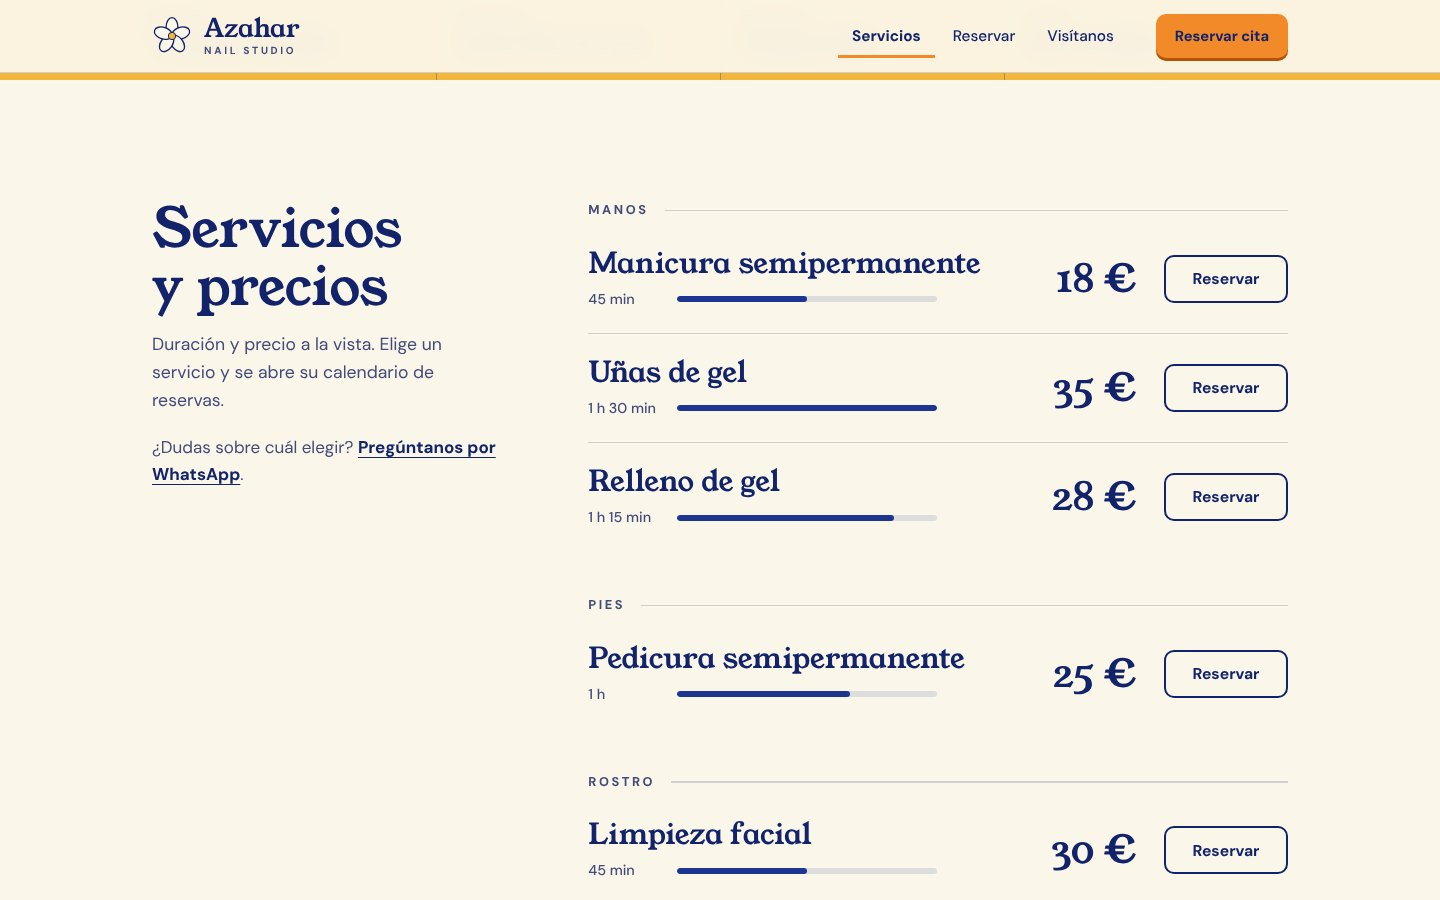
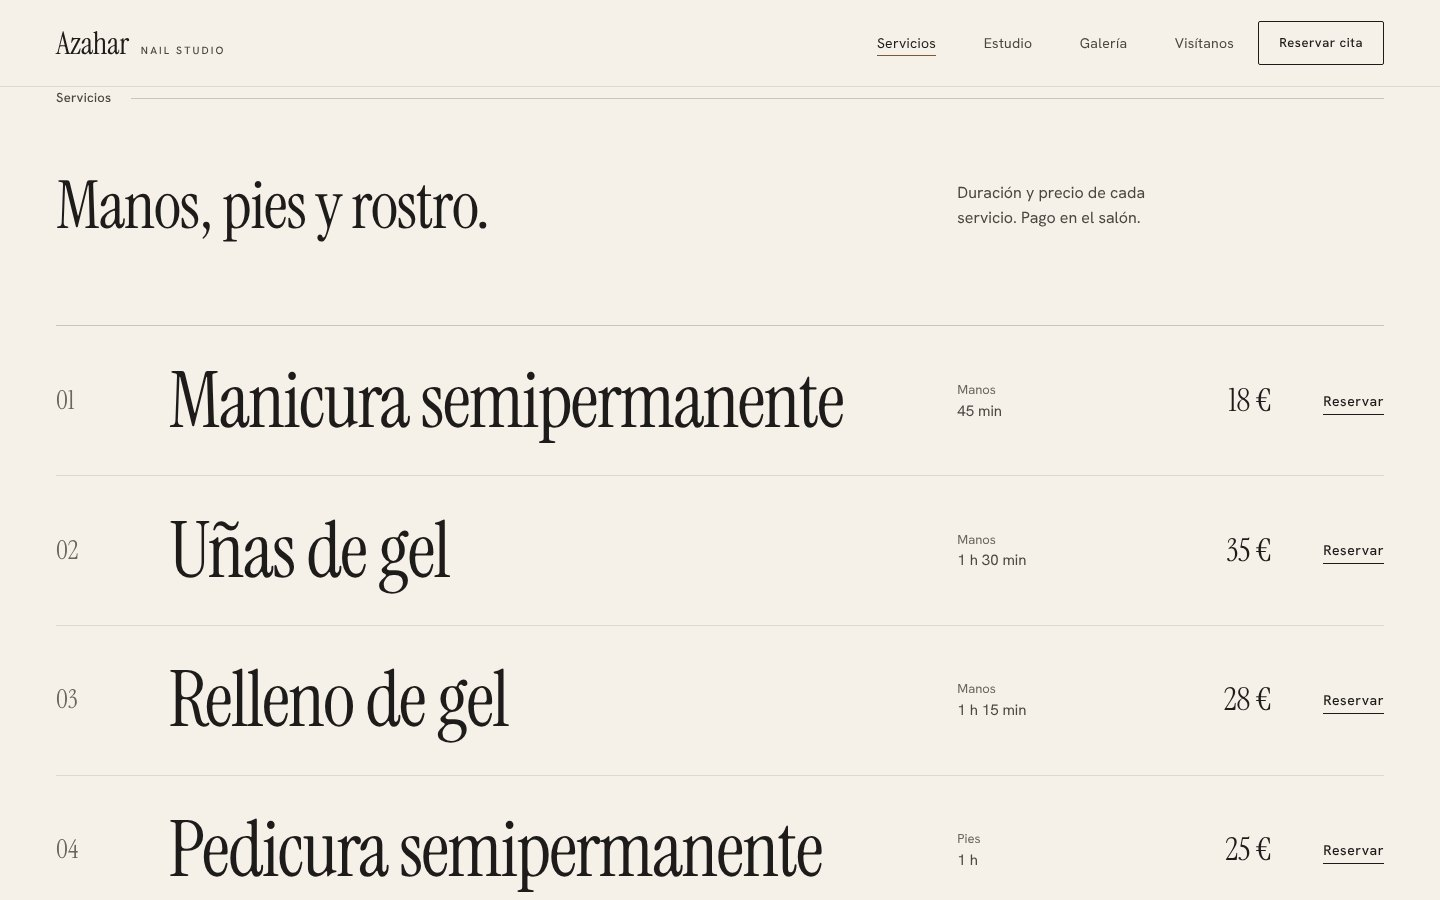
Actualiza README y capturas a la nueva dirección de arte
- README: dirección de arte, estructura (fuentes, fotos), cómo sustituir las fotografías
  provisionales, peso medido, 97 pruebas y límites conocidos.
- Capturas de docs/screenshots regeneradas con el diseño editorial.

Claude-Session: https://claude.ai/code/session_01KkmWQgXBP167e8u8chv8Gx

diff --git a/README.md b/README.md
@@ -2,7 +2,9 @@
 
 Web de un estudio de uñas y estética en **Triana, Sevilla**, con **reservas online integradas mediante Cal.com**. Es una web estática (HTML, CSS y JavaScript sin frameworks), pensada para ser rápida, accesible y fácil de mantener, y preparada para desplegarse en Netlify.
 
-> **Estado: web de demostración de JM Web Studio.** El negocio es ficticio: el nombre, el barrio y la ilustración son de ejemplo. Los servicios, precios, duraciones, horario y enlace de reservas son los configurados en la cuenta de Cal.com de la demostración. Los datos legales del titular aparecen marcados como *pendientes* porque no existen; no se han inventado.
+> **Estado: web de demostración de JM Web Studio.** El negocio es ficticio: el nombre y el barrio son de ejemplo. Los servicios, precios, duraciones, horario y enlace de reservas son los configurados en la cuenta de Cal.com de la demostración. Los datos legales del titular aparecen marcados como *pendientes* porque no existen; no se han inventado.
+>
+> **Las cinco fotografías son provisionales** (estudios de luz generados por código, sin personas ni productos). Hay que sustituirlas por fotografía real del negocio: ver [Fotografía](#fotografía-real-cómo-sustituir-los-placeholders).
 
 | Escritorio | Móvil |
 | --- | --- |
@@ -11,43 +13,53 @@ Web de un estudio de uñas y estética en **Triana, Sevilla**, con **reservas on
 
 ## Qué resuelve
 
-Una persona llega desde Google o Instagram y necesita saber, en pocos segundos, **qué ofrece el salón, cuánto cuesta, cuánto dura, dónde está y cómo reservar**. La web pone esa información al alcance de un vistazo (franja de datos, carta con precios y duraciones) y deja la reserva a un toque en cualquier momento.
+Una persona llega desde Google o Instagram y necesita saber, en pocos segundos, **qué ofrece el salón, cuánto cuesta, cuánto dura, dónde está y cómo reservar**. La portada da la acción principal (*Reservar cita*) sin hacer scroll en un portátil de 1366×768, la carta de servicios muestra duración y precio de cada uno con su propio botón de reserva, y el calendario está a un toque desde cualquier punto.
 
 ## Funcionalidades
 
-- **Reservas con Cal.com** integradas en la página (embed en línea). Cada servicio tiene su botón *Reservar*, que abre su propio evento de Cal.com; un selector permite cambiar de servicio sin salir de la página.
-- **Carta de servicios** con nombre, duración y precio, y una barra que visualiza la duración relativa de cada servicio.
+- **Reservas con Cal.com** integradas en la página (embed en línea). Cada servicio tiene su botón *Reservar*, que selecciona su evento de Cal.com y lleva el foco al selector de servicio; los selectores permiten cambiar de servicio sin salir de la página.
+- **Carta de servicios** como lista editorial: nombre, duración y precio discretos y un *Reservar* por fila.
 - **Contacto directo**: WhatsApp con mensaje prellenado, teléfono (`tel:`), enlace a Google Maps y horario con indicador «abierto ahora» calculado en hora de Madrid.
-- **Móvil primero**: menú accesible, barra fija con *Reservar*, WhatsApp y llamada que aparece cuando el botón del hero sale de pantalla.
-- **Privacidad por defecto**: el calendario de Cal.com y el mapa de Google **no se cargan hasta que la persona acepta** (banner con *Aceptar* y *Rechazar* de igual peso, panel de configuración y recuadros con alternativa sin cookies). Si Cal.com no carga, se ofrece el enlace directo.
+- **Móvil primero**: menú accesible anclado bajo la cabecera, portada con la foto arriba y la acción debajo, y barra fija con *Reservar*, WhatsApp y llamada que aparece cuando el botón de la portada sale de pantalla.
+- **Privacidad por defecto**: el calendario de Cal.com y el mapa de Google **no se cargan hasta que la persona acepta** (banner con *Aceptar* y *Rechazar* de igual peso, panel de configuración y recuadros con alternativa sin cookies). Si se retira el permiso de algo ya cargado, la página se recarga para descargarlo. Si Cal.com no carga, se ofrece el enlace directo.
 - **SEO local**: `title` y `description` únicos, un H1 por página, Open Graph, `canonical`, datos estructurados `BeautySalon` (con acción de reserva y catálogo de precios) coherentes con el contenido visible, `robots.txt` y `sitemap.xml` generados en el build.
-- **Accesibilidad**: HTML semántico, enlace «saltar al contenido», foco visible, navegación por teclado, contraste AA verificado por test y respeto de `prefers-reduced-motion`.
+- **Accesibilidad**: HTML semántico, enlace «saltar al contenido», foco visible (y no tapado por la cabecera fija), navegación por teclado, contraste AA verificado por test, soporte básico de contraste forzado y respeto de `prefers-reduced-motion`.
 - **Páginas legales**: aviso legal, política de privacidad y de cookies, más una 404.
 
-## Decisiones de diseño y técnicas
+## Dirección de arte
 
-- **Identidad propia**: el nombre (*Azahar*) y el barrio (Triana, famoso por su cerámica) dan el concepto: azulejo cobalto, azafrán del azahar y naranja de Sevilla. Tipografías *Young Serif* (títulos) y *DM Sans* (texto), autoalojadas.
-- **Ilustración en lugar de fotos**: no hay fotografías reales del negocio, y no se usan imágenes de stock como si lo fueran. El hero es una ilustración SVG propia (marco de azulejos, naranja y cinco uñas). La web está preparada para sustituirla por fotografía real (ver *Mantenimiento*).
-- **Solo contenido verificable**: no hay testimonios, años de experiencia, certificaciones ni descripciones de proceso inventadas. Un test impide que reaparezcan frases típicas de relleno.
-- **Sin dependencias en producción**: JavaScript en una IIFE (sin módulos), sin librerías, sin imágenes de mapa de bits en la portada. Los únicos recursos externos son Cal.com y Google Maps, y solo tras consentimiento.
-- **Build propio de menos de 100 líneas** (`scripts/build.mjs`, sin paquetes): sustituye la URL pública en `canonical`/Open Graph/Schema, añade un hash de contenido a CSS y JS (caché larga sin riesgo de ficheros obsoletos) y genera `robots.txt` y `sitemap.xml`. Mientras `INDEXABLE` no sea `true` mantiene `noindex`, porque es una demostración.
+Editorial de belleza contemporánea: **la fotografía y la tipografía son el diseño**. Se evita deliberadamente cualquier decoración temática (sin motivos de uñas ni flores, iconos, patrones, tarjetas con sombra, degradados, cristal ni bordes muy redondeados).
+
+- **Color**: marfil, arena y negro suave. Un único acento (*bronce*) reservado a estados de interacción (hover, subrayados, indicador «abierto»). Pie oscuro cálido. Tokens en `:root` de `src/assets/css/styles.css`.
+- **Tipografía**: *Instrument Serif* (titulares, números y precios; cursiva solo en «Triana, Sevilla») + *Hanken Grotesk* (interfaz y texto), autoalojadas en `woff2` (subconjunto latino).
+- **Estructura**: retícula de 12 columnas con ritmo variado: portada asimétrica con foto a sangre, carta de servicios en filas, estudio con foto a sangre a la izquierda, galería escalonada, reserva en banda arena, ubicación y pie con marca grande.
+- **Línea y forma**: hairlines de 1 px como único recurso gráfico, botones planos con radio de 2 px.
+- **Movimiento**: solo fundidos y desplazamientos cortos al hacer scroll. Con «reducir movimiento» desaparecen las entradas animadas, los desplazamientos y el scroll suave. La portada no depende de JavaScript para verse.
+- **Sin contenido inventado**: no hay testimonios, años de experiencia, certificaciones ni descripciones de proceso. Un test impide que reaparezcan frases típicas de relleno. La sección *Estudio* es deliberadamente corta hasta que el cliente aporte su historia real.
+
+## Decisiones técnicas
+
+- **Sin dependencias en producción**: JavaScript en una IIFE (sin módulos), sin librerías. Los únicos recursos externos son Cal.com y Google Maps, y solo tras consentimiento.
+- **Build propio de unas 90 líneas** (`scripts/build.mjs`, sin paquetes): sustituye la URL pública en `canonical`/Open Graph/Schema, añade un hash de contenido a CSS y JS (caché larga sin riesgo de ficheros obsoletos) y genera `robots.txt` y `sitemap.xml`. Mientras `INDEXABLE` no sea `true` mantiene `noindex` (la 404 lo conserva siempre), porque es una demostración.
 - **Reserva real, no simulada**: se usa el snippet oficial de Cal.com. En los tests se sustituye `embed.js` por un doble local para verificar la integración sin red.
+- **Peso** (sin comprimir, medido en el build): HTML 22 KB, CSS 35 KB, JS 20 KB, fuentes 78 KB (3 `woff2`) y 16 KB la foto de portada: unos 170 KB para la primera pantalla móvil. Las demás fotografías se cargan en diferido. No se ha medido con Lighthouse.
 
 ## Tecnologías
 
-HTML5 · CSS3 (variables, grid, `clip`/`mask`) · JavaScript (ES5/ES2015, sin transpilar) · Node.js ≥ 20.12 para los scripts · Netlify (alojamiento) · Cal.com y Google Maps (embeds).
+HTML5 · CSS3 (variables, grid) · JavaScript (ES5/ES2015, sin transpilar) · Node.js ≥ 20.12 para los scripts · Netlify (alojamiento) · Cal.com y Google Maps (embeds).
 Herramientas de desarrollo: [Playwright](https://playwright.dev) y [html-validate](https://html-validate.org).
 
 ## Estructura
 
 ```
 src/                       Código fuente de la web (lo que se publica)
-  index.html               Portada: hero, datos, servicios, reservas y contacto
+  index.html               Portada: hero, servicios, estudio, galería, reservas y contacto
   aviso-legal.html · politica-privacidad.html · politica-cookies.html · 404.html
   assets/css/styles.css    Tokens, componentes, secciones y responsive
   assets/js/main.js        Menú, consentimiento, Cal.com, mapa, barra móvil, «abierto ahora»
-  assets/fonts/            Young Serif y DM Sans (woff2, licencia SIL OFL)
-  assets/img/              Favicon, iconos, imagen para compartir, sprite SVG y motivos de azulejo
+  assets/fonts/            Instrument Serif y Hanken Grotesk (woff2, licencia SIL OFL)
+  assets/img/              Favicon, icono iOS e imagen para compartir
+  assets/img/photos/       Fotografías (hoy, placeholders): portada, estudio y galería
 scripts/
   build.mjs                Compila src/ a dist/ (SITE_URL, hash de caché, robots, sitemap)
   dev.mjs · serve.mjs      Servidor local con recompilación
@@ -67,11 +79,11 @@ npx playwright install chromium  # solo la primera vez, para los tests
 npm run dev                      # http://localhost:8765 (compila y recompila al guardar)
 npm run build                    # genera dist/ (necesita SITE_URL, ver abajo)
 npm run validate                 # valida el HTML
-npm test                         # 70+ pruebas: build, contraste, consola, enlaces, SEO, reservas, móvil, teclado
+npm test                         # 97 pruebas: build, contraste, consola, enlaces, SEO, reservas, móvil, teclado
 npm run screenshots              # actualiza docs/screenshots/
 ```
 
-Los tests comprueban, en Chromium real y en cinco anchos (360 a 1920 px): ausencia de errores de consola y de peticiones fallidas, ausencia de desbordes horizontales, enlaces y anclas, SEO básico, que el Schema.org coincide con el contenido, que la web muestra exactamente los datos de `tests/business.json`, el flujo de consentimiento y de reserva por servicio (con doble local de Cal.com), el menú móvil, el foco de teclado y un presupuesto de peso.
+Los tests comprueban, en Chromium real y en cinco anchos (360 a 1920 px): ausencia de errores de consola y de peticiones fallidas, ausencia de desbordes horizontales, enlaces y anclas, SEO básico, que el Schema.org coincide con el contenido, que la web muestra exactamente los datos de `tests/business.json`, el flujo de consentimiento y de reserva por servicio (con doble local de Cal.com), el menú móvil, el foco de teclado, un presupuesto de peso y regresiones de la revisión de diseño (portada dentro del pliegue en portátiles, precio y *Reservar* separados en tablet, portada visible sin JavaScript, selectores de servicio visibles tras *Reservar*, retirada del consentimiento, orden del DOM, etc.).
 
 ## Configuración
 
@@ -88,30 +100,45 @@ Se define en variables de entorno (ver [`.env.example`](.env.example)). No hay s
 1. Conectar el repositorio. `netlify.toml` ya define el comando (`node scripts/build.mjs`) y el directorio de publicación (`dist`).
 2. Para una web real, añadir `INDEXABLE=true` en las variables de entorno del sitio y asociar el dominio.
 
-Las cabeceras de seguridad y la caché están en `netlify.toml`. No se ha definido una política `Content-Security-Policy` porque el calendario de Cal.com no se pudo probar contra ninguna política concreta durante el desarrollo.
+Las cabeceras de seguridad y la caché están en `netlify.toml`. CSS, JS y fuentes se cachean un año; las imágenes se revalidan en cada visita a propósito, para que al sustituir los placeholders no quede la foto antigua en el navegador. No se ha definido una política `Content-Security-Policy` porque el calendario de Cal.com no se pudo probar contra ninguna política concreta durante el desarrollo.
+
+## Fotografía real: cómo sustituir los placeholders
+
+Hay cinco imágenes en `src/assets/img/photos/`. Para cada una, reemplazar el archivo manteniendo el nombre (o cambiar la ruta en `src/index.html`), exportar en WebP o AVIF y actualizar `width`/`height`.
+
+| Archivo | Dónde sale | Proporción | Notas |
+| --- | --- | --- | --- |
+| `portada.webp` | Portada (imagen LCP) | Vertical, 4:5 recomendada | Se recorta entre ~2:3 y 1:1 según la pantalla: el motivo debe quedar centrado. |
+| `estudio.webp` | Sección *Estudio* | 3:2 | Foto real del local. |
+| `galeria-1.webp` | Galería | 4:5 | |
+| `galeria-2.webp` | Galería | 1:1 | |
+| `galeria-3.webp` | Galería | 4:3 | |
+
+En cada `<img>`: quitar `data-placeholder`, escribir un `alt` descriptivo (los placeholders llevan `alt=""` porque son decorativos) y mantener `fetchpriority="high"` solo en la portada y `loading="lazy"` en el resto. Mientras queden placeholders, `npm test` muestra un aviso. Hace falta permiso o autoría de las fotos; no se deben usar imágenes de stock presentadas como del negocio.
 
 ## Mantenimiento: dónde cambiar cada cosa
 
 | Qué | Dónde |
 | --- | --- |
-| Servicios, precios y duraciones | `src/index.html` (carta, `data-cal-link`, JSON-LD) y `tests/business.json`. Deben coincidir con los eventos de Cal.com. |
+| Servicios, precios y duraciones | `src/index.html` (carta, selectores, `data-cal-link`, JSON-LD) y `tests/business.json`. Deben coincidir con los eventos de Cal.com. |
 | Usuario de Cal.com | `data-cal-link`, `data-cal-base`, `data-cal-origin` en `src/index.html`. |
-| Horario | Tabla de contacto, franja de datos, `data-*` de `#open-now` y JSON-LD. |
+| Horario | Tabla de contacto, línea de la portada, `data-*` de `#open-now` y JSON-LD. |
 | Teléfono y WhatsApp | Buscar y reemplazar el número en `src/` (enlaces `tel:` y `wa.me`) y en `tests/business.json`. |
 | Mapa | `data-src` de `#map-wrap` en `src/index.html`. |
 | Colores, tipografías y espaciado | Variables `:root` de `src/assets/css/styles.css`. |
 | Datos legales | Campos marcados como *Pendiente* en `aviso-legal.html` y `politica-privacidad.html`. |
-| Fotografía real | Sustituir la ilustración `#hero-art` por un `<img>` en WebP/AVIF con `alt`, `width` y `height`; añadir la galería solo con fotos reales y permiso. |
+| Texto de *Estudio* | `src/index.html`: sustituir por la historia real del negocio cuando exista. |
 | Quitar el modo demostración | Eliminar `#demo-bar` (HTML y su lógica en `main.js`) y desplegar con `INDEXABLE=true`. |
 
 ## Límites conocidos
 
-- Verificado únicamente en Chromium. No se ha probado en Safari ni en Firefox.
+- Verificado únicamente en Chromium. No se ha probado en Safari ni en Firefox, ni con lectores de pantalla.
 - El calendario real de Cal.com y el mapa de Google no se pudieron cargar durante el desarrollo (sin salida a internet); la integración se verificó con un doble de `embed.js`.
 - Los enlaces externos (Cal.com, Google, AEPD, Netlify) no se han podido comprobar en vivo.
+- Las cinco fotografías son provisionales (ver arriba).
+- El evento *Limpieza facial* de Cal.com puede seguir configurado con una duración distinta de los 45 min que muestra la web: debe coincidir en la cuenta de Cal.com.
 - Los textos legales son orientativos y deben revisarlos un profesional antes de publicar una web real.
-- Peso medido de la portada: 169 KB sin comprimir (HTML 29 KB, CSS 30 KB, JS 19 KB, fuentes 88 KB), sin imágenes de mapa de bits. No se ha medido con Lighthouse.
 
 ## Licencias
 
-Sin licencia de código abierto declarada para el código del proyecto. Tipografías *Young Serif* y *DM Sans*: SIL Open Font License 1.1. Ilustraciones: originales de este proyecto.
+Sin licencia de código abierto declarada para el código del proyecto. Tipografías *Instrument Serif* y *Hanken Grotesk*: SIL Open Font License 1.1. Fotografías provisionales: generadas por código para este proyecto.
